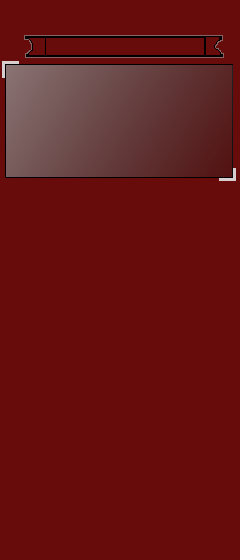
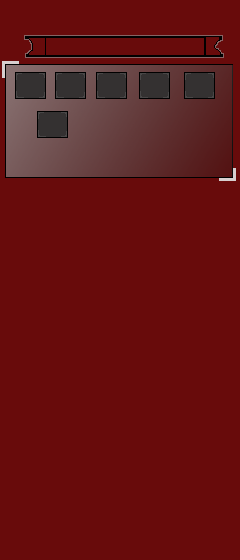
update menu items interface - Slingshot -WIP

Changed region(s): [[0.0583, 0.1214, 0.7292, 0.2732], [0.7583, 0.1214, 0.9042, 0.1821]]

diff --git a/styles/styles.css b/styles/styles.css
@@ -111,8 +111,8 @@ box-shadow:-3px -1px rgba(1, 7, 10, 0.911);
 #slingShot {
     font-size: 12px;
     position: absolute;
-    top: 12%;
-    left: 2%;
+    top: 13%;
+    left: 6%;
     display: none;
     height: 6%;
 
